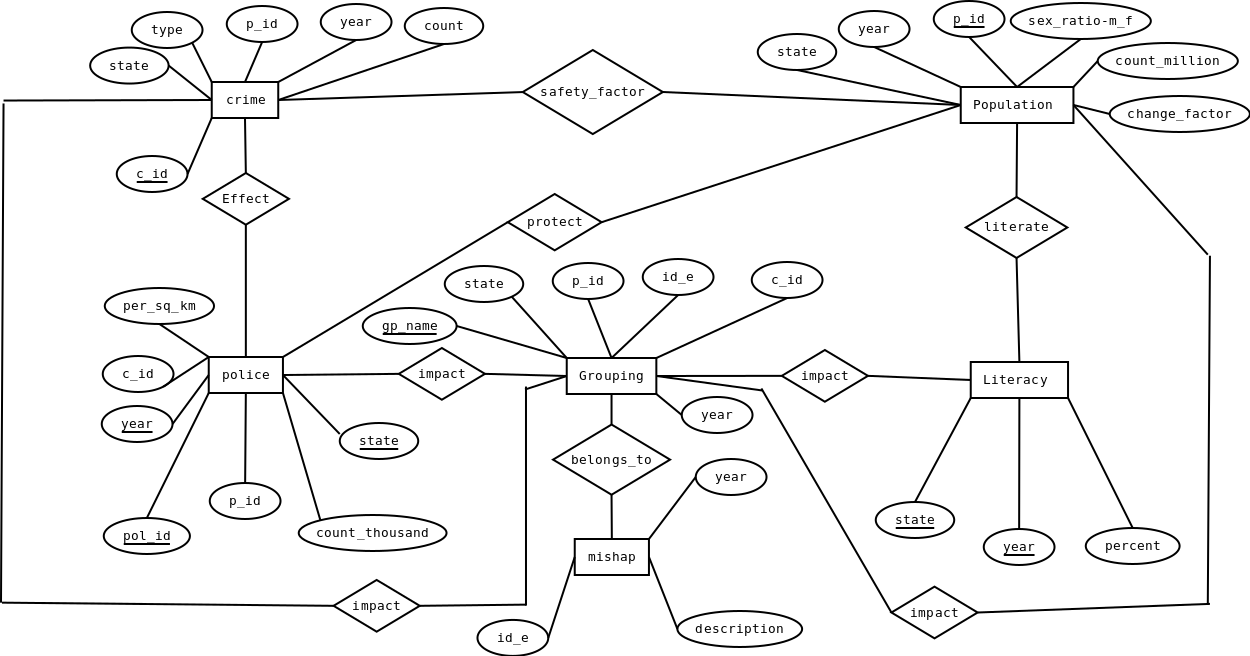
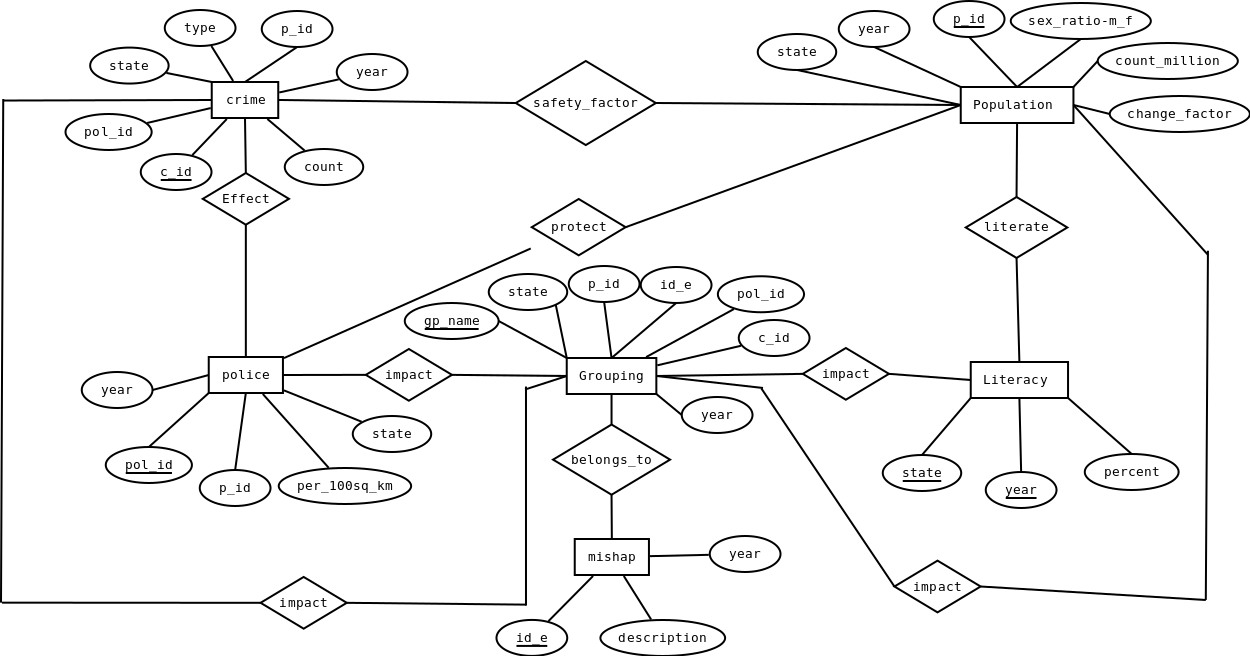
just saving

diff --git a/Scripts/create_tables.py b/Scripts/create_tables.py
@@ -8,13 +8,13 @@ def main():
 	createliteracy(c)
 	conn.commit()
 
+	createpopulation(c)
+	conn.commit()
+
 	createpolice(c)
 	conn.commit()
 
 	createcrime(c)
-	conn.commit()
-
-	createpopulation(c)
 	conn.commit()
 
 	createmishap(c)
@@ -29,15 +29,17 @@ def createcrime(c):
 			create table crime(
 			c_id varchar2(20) primary key,
 			p_id varchar2(20),
+			pol_id varchar2(20),
 			state varchar2(20),
 			type varchar2(200),
 			year number(4),
 			count number(10),
-			foreign key (p_id) references population
+			foreign key (p_id) references population,
+			foreign key (pol_id) references police
 			)
-			'''
-	print 'Crime table created.'
+			'''	
 	c.execute(query)
+	print 'Crime table created.'
 
 
 def createpopulation(c):
@@ -49,26 +51,27 @@ def createpopulation(c):
 			sex_ratio_m_f numeric(6, 2) default 1000,
 			count_million numeric(5, 2),
 			change_factor numeric(3, 1),
-			foreign key(state, year) references literacy,
-			foreign key(state, year) references police
+			foreign key(state, year) references literacy
 			)			
 			'''
-	print 'Population table created.'
 	c.execute(query)
+	print 'Population table created.'
 
 
 def createpolice(c):
 	query = '''
 			create table police(
+			pol_id varchar2(20) primary key,
+			p_id varchar2(20),
 			state varchar2(20),
 			year number(4),
-			per_100_km number(4),
-			count_thousand numeric(5, 2),
-			primary key(state, year)
+			per_100sq_km number(4),
+			count_thousand numeric(6, 2),
+			foreign key (p_id) references population
 			)
 			'''
-	print 'Police table created.'
 	c.execute(query)
+	print 'Police table created.'
 
 
 def createliteracy(c):
@@ -76,12 +79,12 @@ def createliteracy(c):
 			create table literacy(
 			state varchar2(20) ,
 			year number(4) ,
-			percent numeric(4, 2),
+			percent numeric(5, 2),
 			primary key(state, year)
 			)
 			'''
-	print 'literacy table created.'
 	c.execute(query)
+	print 'literacy table created.'
 
 
 def createmishap(c):
@@ -91,29 +94,32 @@ def createmishap(c):
 			year number(4) not null,
 			description varchar(50))
 			'''
-	print 'Mishap table created.'
 	c.execute(query)
+	print 'Mishap table created.'
 
 
 def creategrouping(c):
 	query = '''
 			create table grouping(
 			gp_name varchar(20) primary key,
+			pol_id varchar2(20),
 			p_id varchar2(20),
 			c_id varchar2(20),
 			id_e varchar2(10),
 			state varchar2(20) not null,
 			year number(4) not null,
-			type varchar2(20) not null,
 			foreign key (id_e) references mishap,	
 			foreign key(p_id) references population,
 			foreign key(state, year) references literacy,
-			foreign key(state, year) references police,
+			foreign key(pol_id) references police,
 			foreign key(c_id) references crime)
 			'''
-	print 'Grouping table created.'
 	c.execute(query)	
+	print 'Grouping table created.'
 	
 
 if __name__ == '__main__':
 	main()
+	print '-' * 60
+	print '\t\tALL TABLES CREATED.'
+	print '-' * 60

diff --git a/Scripts/__init__.py b/Scripts/__init__.py
@@ -12,6 +12,7 @@ def main():
 	droptables(c, tablenames)
 	conn.commit()
 
+
 def droptables(c, tablenames):
 	for name in tablenames:
 		try:
@@ -22,3 +23,6 @@ def droptables(c, tablenames):
 
 if __name__ == '__main__':
 	main()
+	print '-' * 60
+	print '\t\tALL TABLES DROPPED.'
+	print '-' * 60
